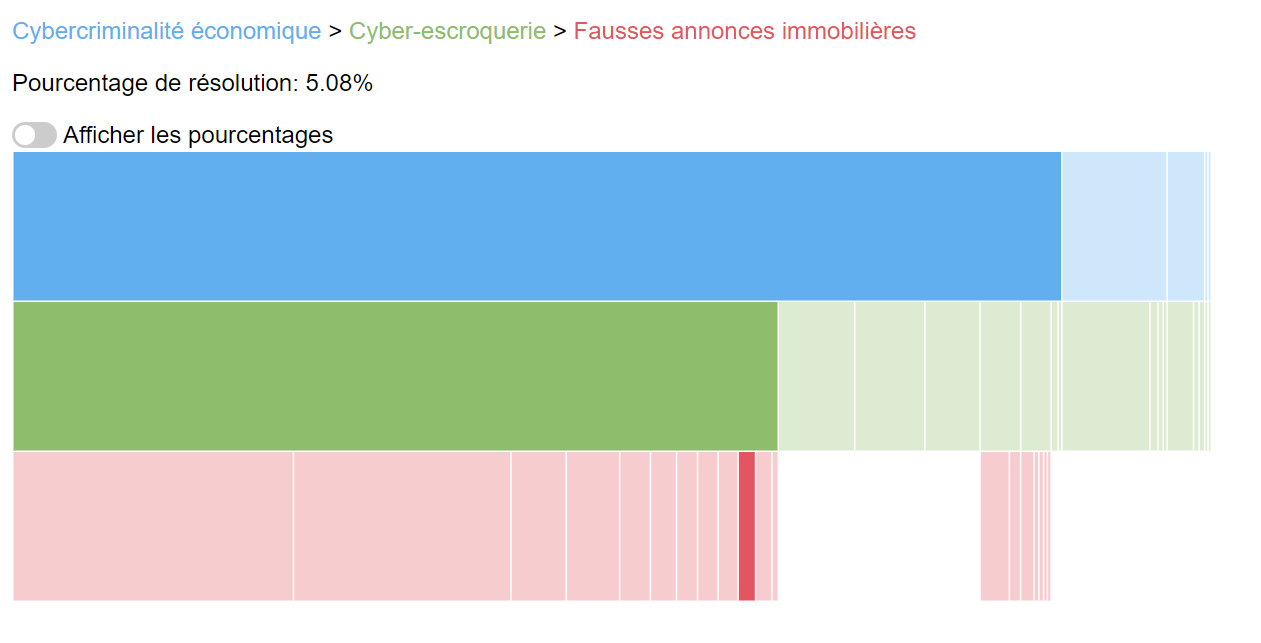
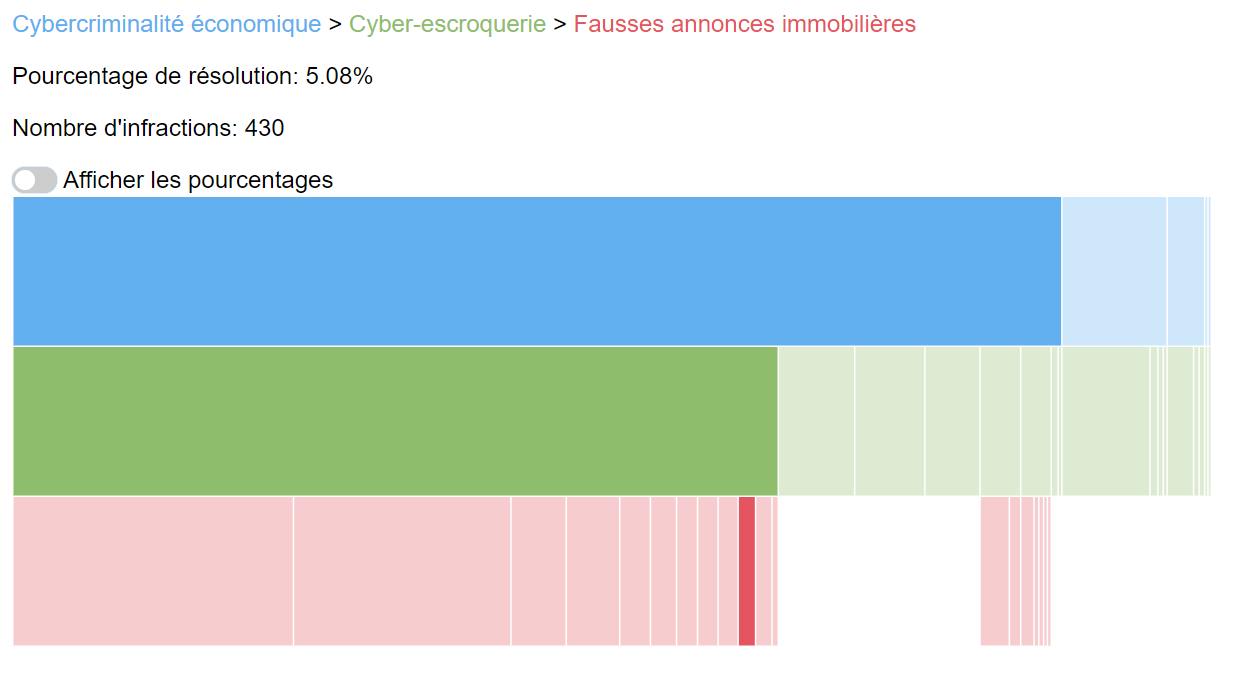
Structure du rapport

Changed region(s): [[0.0, 0.0933, 0.9759, 0.9331], [0.0, 0.0, 0.7319, 0.0622], [0.2135, 0.902, 0.244, 0.9331]]

diff --git a/index.html b/index.html
@@ -11,23 +11,28 @@
 </head>
 
 <body>
-  <h1>Criminalité numérique 2022</h1>
-  <p id="title" style="visibility: hidden;">Text</p>
-  <p id="pourcentage" style="visibility: hidden;">Text</p>
-  <p id="nombre" style="visibility: hidden;">Text</p>
-  <div id="container">
-    <label class="switch">
-      <input type="checkbox" id="pctToggle" unchecked>
-      <span class="slider round"></span>
-    </label>
-    <g id="legend">Afficher les pourcentages</g>
+  <div>
+    <h1>La criminalité numérique 2022 en Suisse</h1>
   </div>
-
-  <svg id="graph" width=800 height=400></svg>
-  <script src="script.js"></script>
-  <p>La criminalité numérique est toujours en pleine essor en 2022. Le graphique ci-dessus vous montre comment celle-ci se décompose. Notez qu'il apparait uniquement les crimes qui ont été rapportés aux autorités compétentes. Ici, nous ommetons tous les crimes qui ont été commis mais soit non rapporés par les vitctimes par paresse, par méconnaissance des procédures existantes ou honte de montrer qu'il se sont fait piéger. Certains s'avoue déjà vaincu et ne prennent pas la peine d'informer la police de l'infraction dont ils ont été victimes. En effet, comme nous allons le voir plus bas, peu d'infractions sont résolues.</p>
-  <p>Premièrement, la majorité des crimes sont économiques et plus précisement parmi ceux-ci, ils ont trait à une escroquerie. Les arnaques survenant sur les sites de ventes entre particuliers sont nombreuses, que ce soit lors d'un achat ou lors d'une vente.</p>
-  <p>Ensuite, si l'on s'intéresse à la réussite des enquêtes, ce sont les délits liés à l'intégrité sexuel qui sont presque toujours menés à bout.</p>
+  <div class="visu">
+    <p id="title" style="visibility: hidden;">Text</p>
+    <p id="pourcentage" style="visibility: hidden;">Text</p>
+    <p id="nombre" style="visibility: hidden;">Text</p>
+    <svg id="graph" width=90vw height=400></svg>
+    <div id="container">
+      <label class="switch">
+        <input type="checkbox" id="pctToggle" unchecked>
+        <span class="slider round"></span>
+      </label>
+      <g id="legend">Afficher les pourcentages</g>
+      <script src="script.js"></script>
+    </div>
+  </div>
+  <div>
+    <p>La criminalité numérique est toujours en pleine essor en 2022. Le graphique ci-dessus vous montre comment celle-ci se décompose. Notez qu'il apparait uniquement les crimes qui ont été rapportés aux autorités compétentes. Ici, nous ommetons tous les crimes qui ont été commis mais soit non rapporés par les vitctimes par paresse, par méconnaissance des procédures existantes ou honte de montrer qu'il se sont fait piéger. Certains s'avoue déjà vaincu et ne prennent pas la peine d'informer la police de l'infraction dont ils ont été victimes. En effet, comme nous allons le voir plus bas, peu d'infractions sont résolues.</p>
+    <p>Premièrement, la majorité des crimes sont économiques et plus précisément parmi ceux-ci, ils ont trait à une escroquerie. Les arnaques survenant sur les sites de ventes entre particuliers sont nombreuses, que ce soit lors d'un achat ou lors d'une vente.</p>
+    <p>Ensuite, si l'on s'intéresse à la réussite des enquêtes, ce sont les délits liés à l'intégrité sexuel qui sont presque toujours menés à bout.</p>
+  </div>
 </body>
 
 </html>

diff --git a/script.js b/script.js
@@ -124,10 +124,10 @@ function updateText(d, ancestors, title, pctText, nombreInfra) {
   pctText
     .style("visibility", "visible")
     .html("Pourcentage de résolution: " + d3.format(".2f")(pct) + "%");
-
+  
   nombreInfra
     .style("visibility", "visible")
-    .html("Nombre d'infraction: " + infractions);
+    .html("Nombre d'infractions: " + d3.format(",.2s")(infractions));
 }
 
 // Utilisatin de la souris

diff --git a/styles/style.css b/styles/style.css
@@ -12,6 +12,14 @@ g{
 }
 
 body{
-    width: 90vw;
     min-width: 800px;
+    display: flex;
+    flex-direction: column;
+    align-items: center;
+    padding: 5px;
+}
+
+.visu{
+    border-style: solid;
+    padding: 5px;
 }

diff --git a/README.md b/README.md
@@ -32,7 +32,7 @@ Le code pour le bouton a été repris de ce [tutoriel](https://www.w3schools.com
 
 ## Contexte
 
-Cette visualisation a été réalisée dans le cadre du cours Visualisation de données de M. Isaac Pante. Le public visé est le suivant : les personnes étudiant le domaine, tels que, notamment, les policiers, avocats, juges, journalistes, etc. ou plus largement toute personne simplement curieuse d’en apprendre davantage sur ce sujet.
+Cette visualisation a été réalisée dans le cadre du cours "Visualisation de données" de M. Isaac Pante. Le public visé est le suivant : les personnes étudiant le domaine, tels que, notamment, les policiers, avocats, juges, journalistes, etc. ou plus largement toute personne simplement curieuse d’en apprendre davantage sur ce sujet.
 
 ## Auteurs
 
